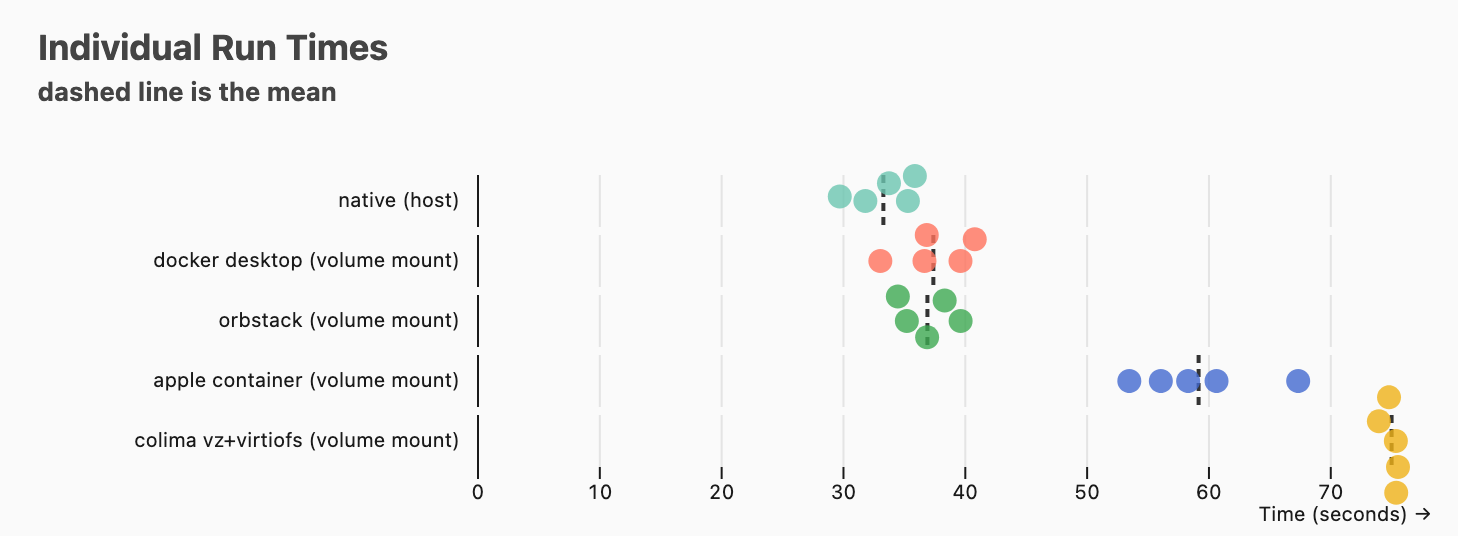
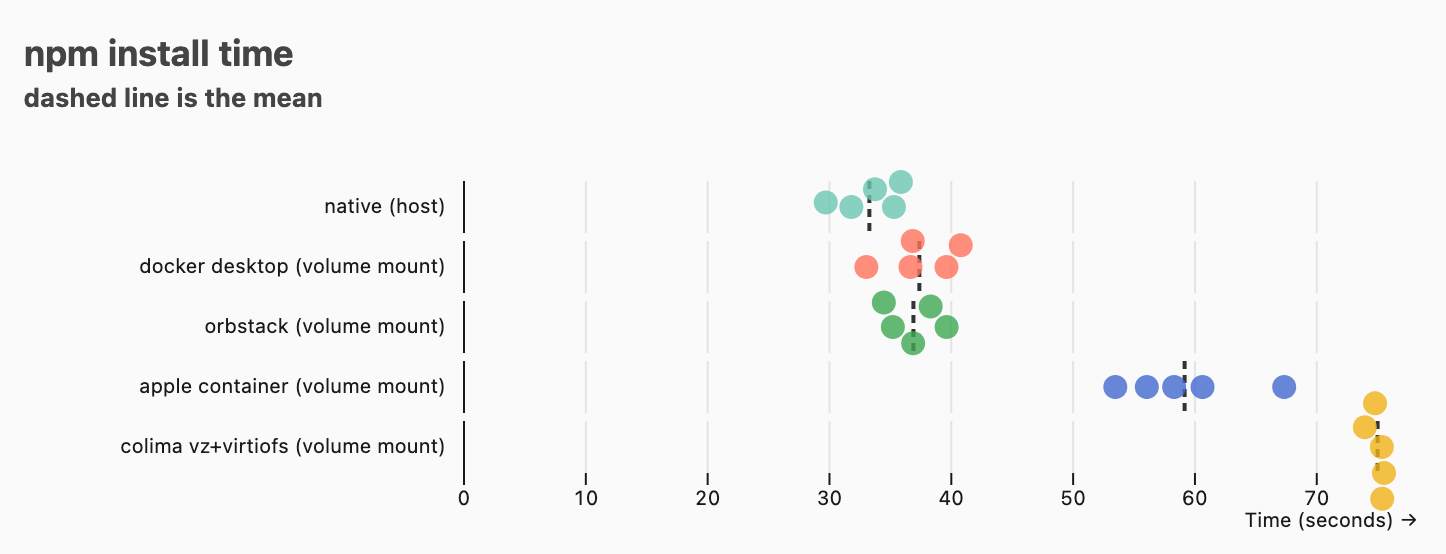
update chart title

diff --git a/results.html b/results.html
@@ -73,13 +73,17 @@
 
       // ── Chart 2: Individual runs as dots + median line ──
       const dotChart = Plot.plot({
-        title: "Individual Run Times",
+        title: "npm install time",
         subtitle: "dashed line is the mean",
         width: 700,
         height: 200,
         marginLeft: 220,
         x: { label: "Time (seconds)", grid: true },
-        fy: { label: null, padding: 0.15, domain: summary.map(d => d.command) },
+        fy: {
+          label: null,
+          padding: 0.15,
+          domain: summary.map((d) => d.command),
+        },
         color: { scheme: "Observable10" },
         marks: [
           Plot.ruleX(summary, {